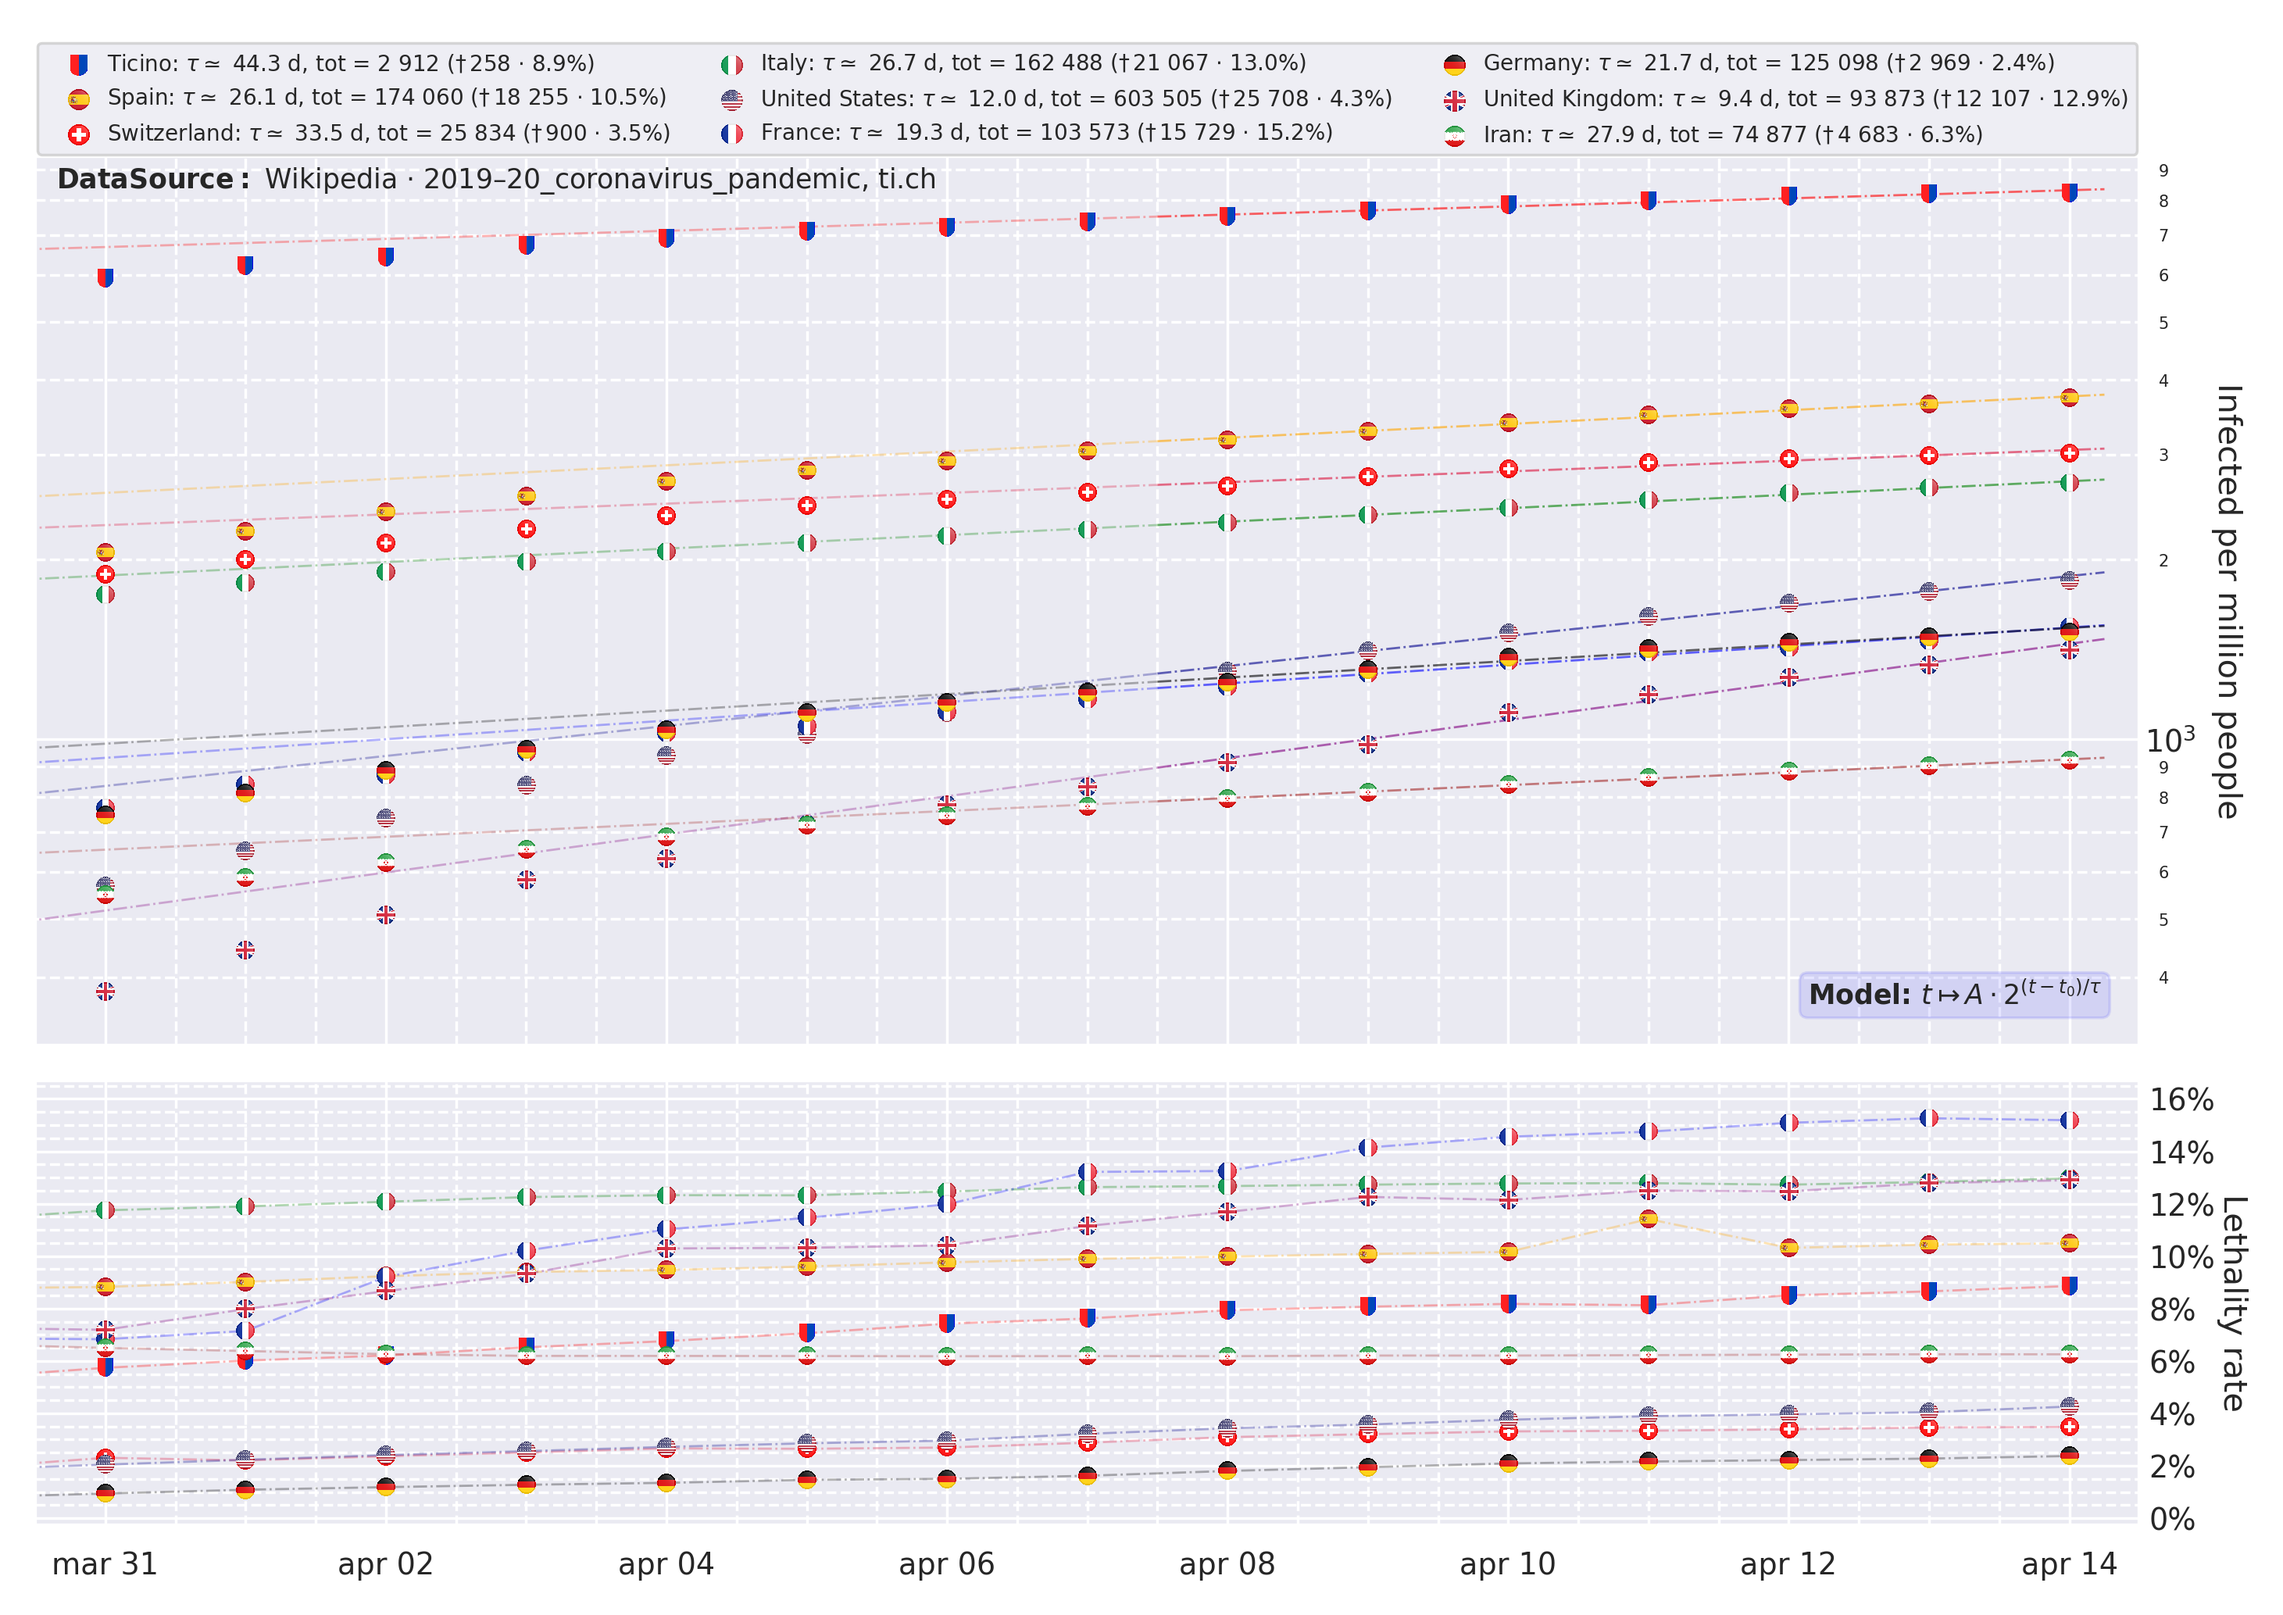
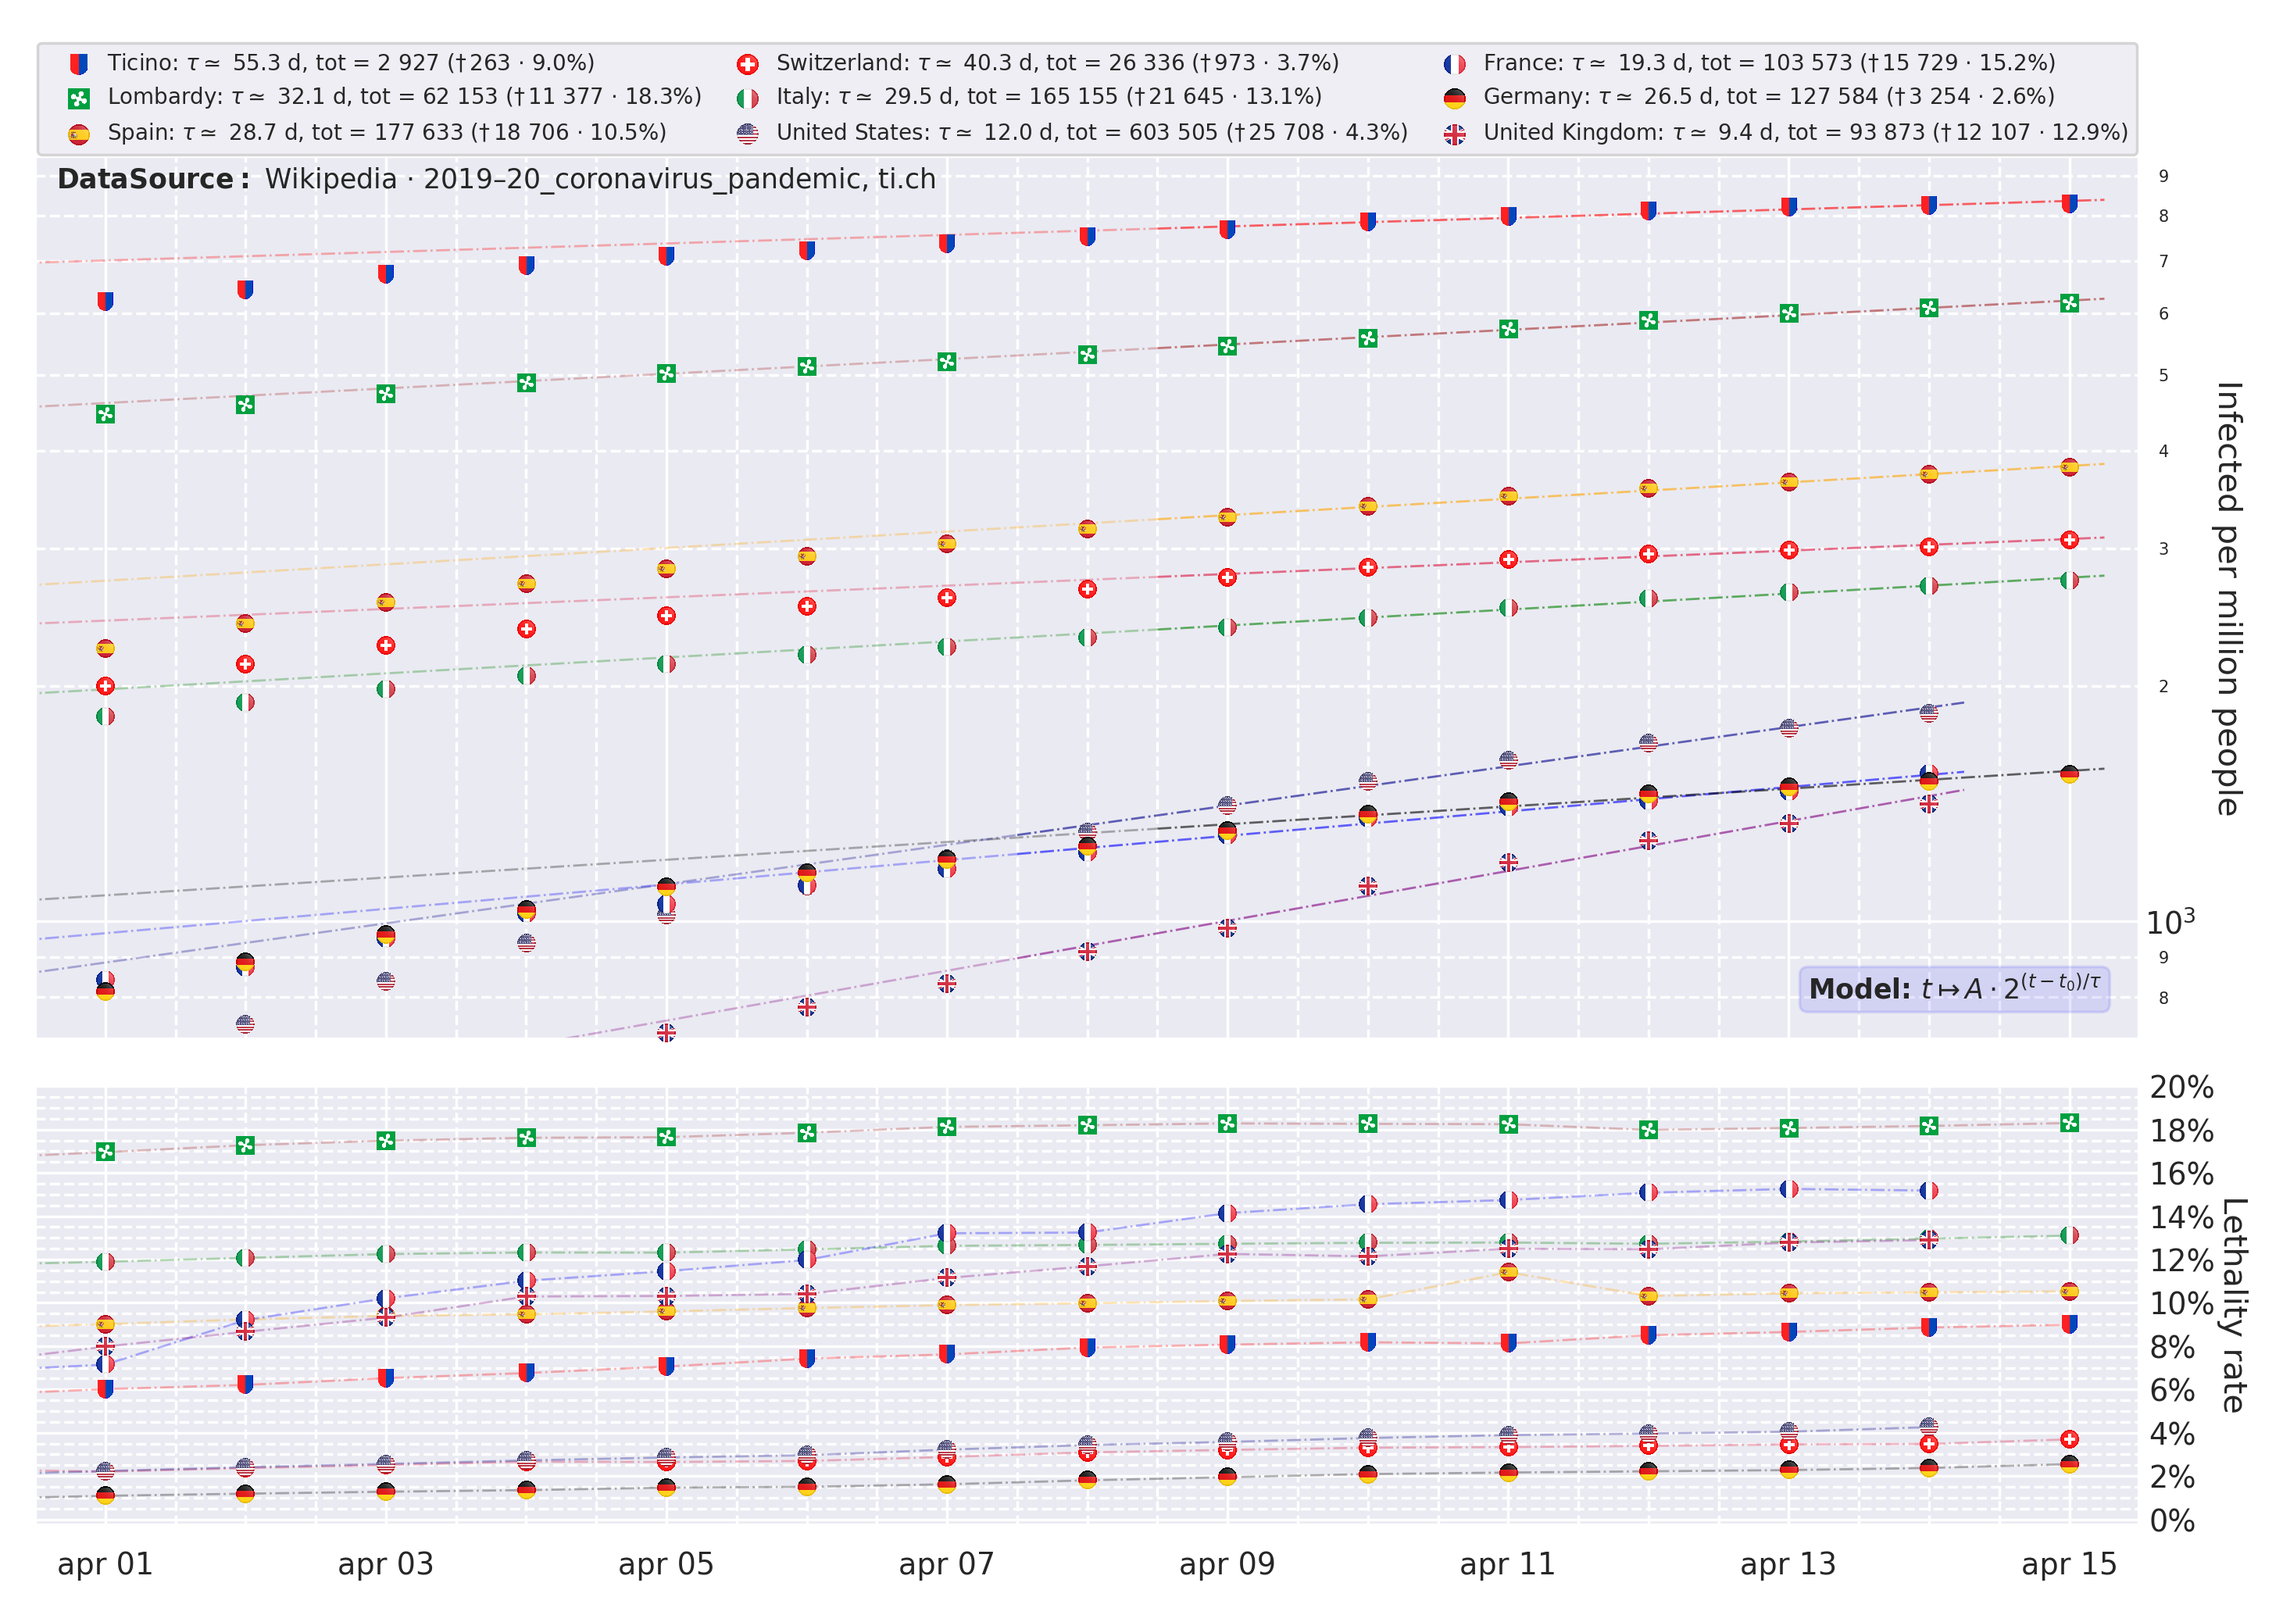
minor commit

diff --git a/Coronavirus/coronavirus.py b/Coronavirus/coronavirus.py
@@ -21,22 +21,22 @@ country_ds = pd.DataFrame(
              "last_update"]
 )
 country_ds["name"] = [
-    "United Kingdom", "Iran", "Italy", "Germany", "France", "Ticino", "Spain",
+    "United Kingdom", "Lombardy", "Italy", "Germany", "France", "Ticino", "Spain",
     "Switzerland", "United States"
 ]
 country_ds["population"] = [
-    66.44, 81.16, 60.48, 82.79, 66.99, 0.3537, 46.66, 8.57, 327.2
+    66.44, 10.06, 60.48, 82.79, 66.99, 0.3537, 46.66, 8.57, 327.2
 ]
 country_ds["filename"] = [
-    "UnitedKingdom.dat", "Iran.dat", "Italy.dat", "Germany.dat", "France.dat",
+    "UnitedKingdom.dat", "Lombardy.dat", "Italy.dat", "Germany.dat", "France.dat",
     "Ticino.dat", "Spain.dat", "Switzerland.dat", "UnitedStates.dat"
 ]
 country_ds["flagname"] = [
-    "gb.png", "ir.png", "it.png", "de.png", "fr.png",
+    "gb.png", "lo.png", "it.png", "de.png", "fr.png",
     "ti.png", "es.png", "ch.png", "us.png"
 ]
 country_ds["date_format"] = [
-    "%Y-%m-%d", None, "%d-%m-%Y", "%d.%m.%Y", "%d.%m.%Y", "%Y-%m-%d",
+    "%Y-%m-%d", "%d-%m-%Y", "%d-%m-%Y", "%d.%m.%Y", "%d.%m.%Y", "%Y-%m-%d",
     "%Y-%m-%d", "%Y-%m-%d", "%b %d %Y"
 ]
 country_ds["color"] = [
@@ -160,7 +160,7 @@ ax1.xaxis.set_major_locator(mdates.DayLocator(interval=2))
 ax1.xaxis.set_minor_locator(mdates.DayLocator())
 
 ax1.set_yscale("log")
-ax1.set_ylim(bottom=country_ds["density"].min()/3)
+ax1.set_ylim(bottom=country_ds["density"].min()/2)
 ax1.set_ylim(top=country_ds["density"].max()*1.15)
 ax1.yaxis.tick_right()
 ax1.tick_params(axis="y", which="both", length=0)
